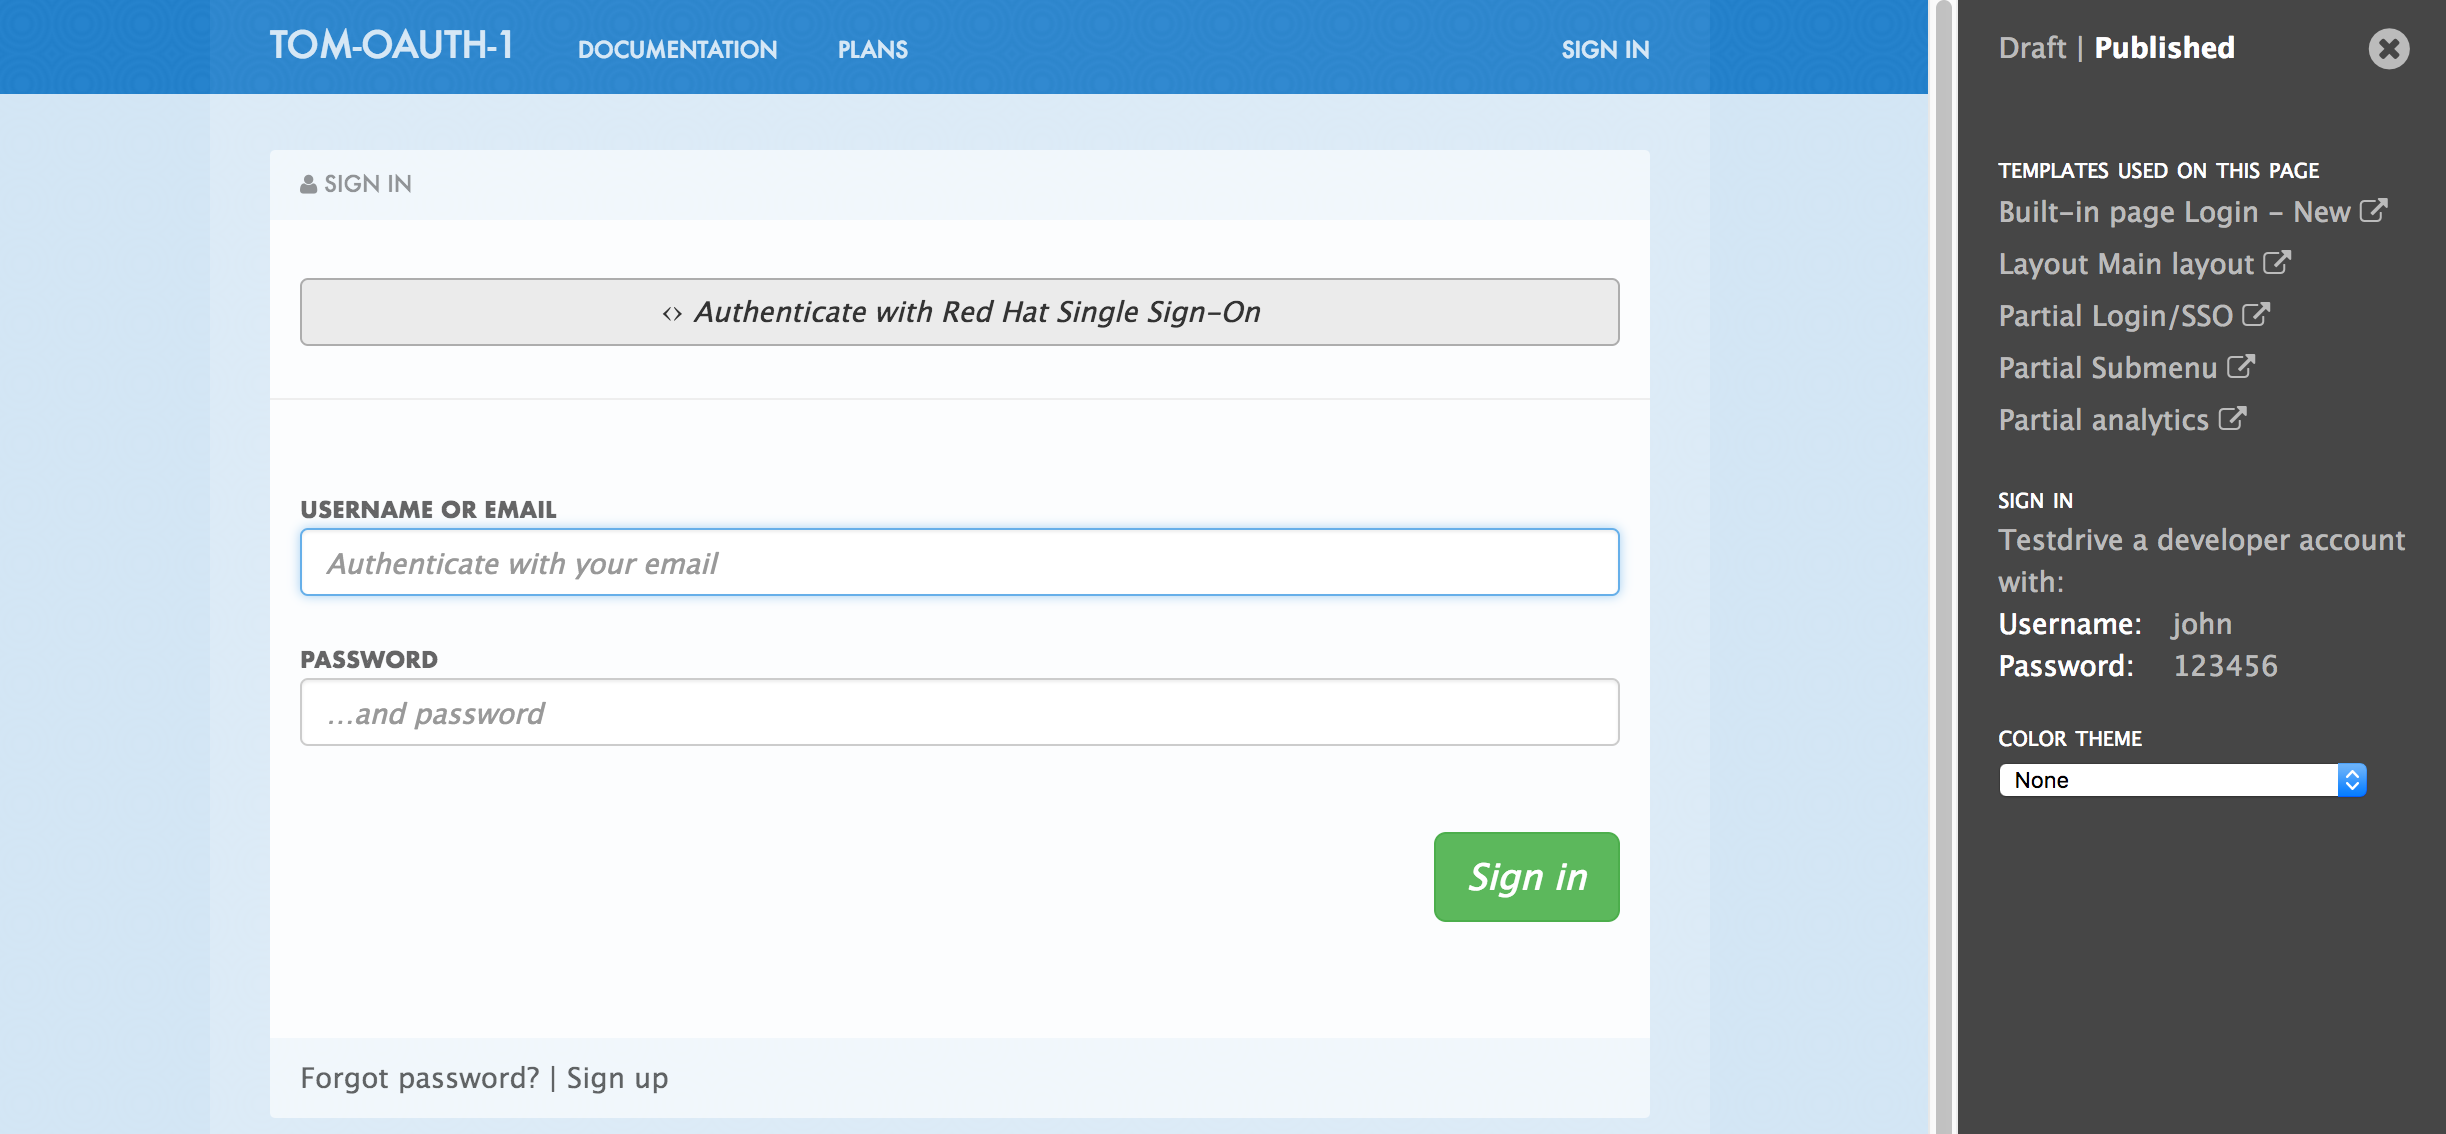
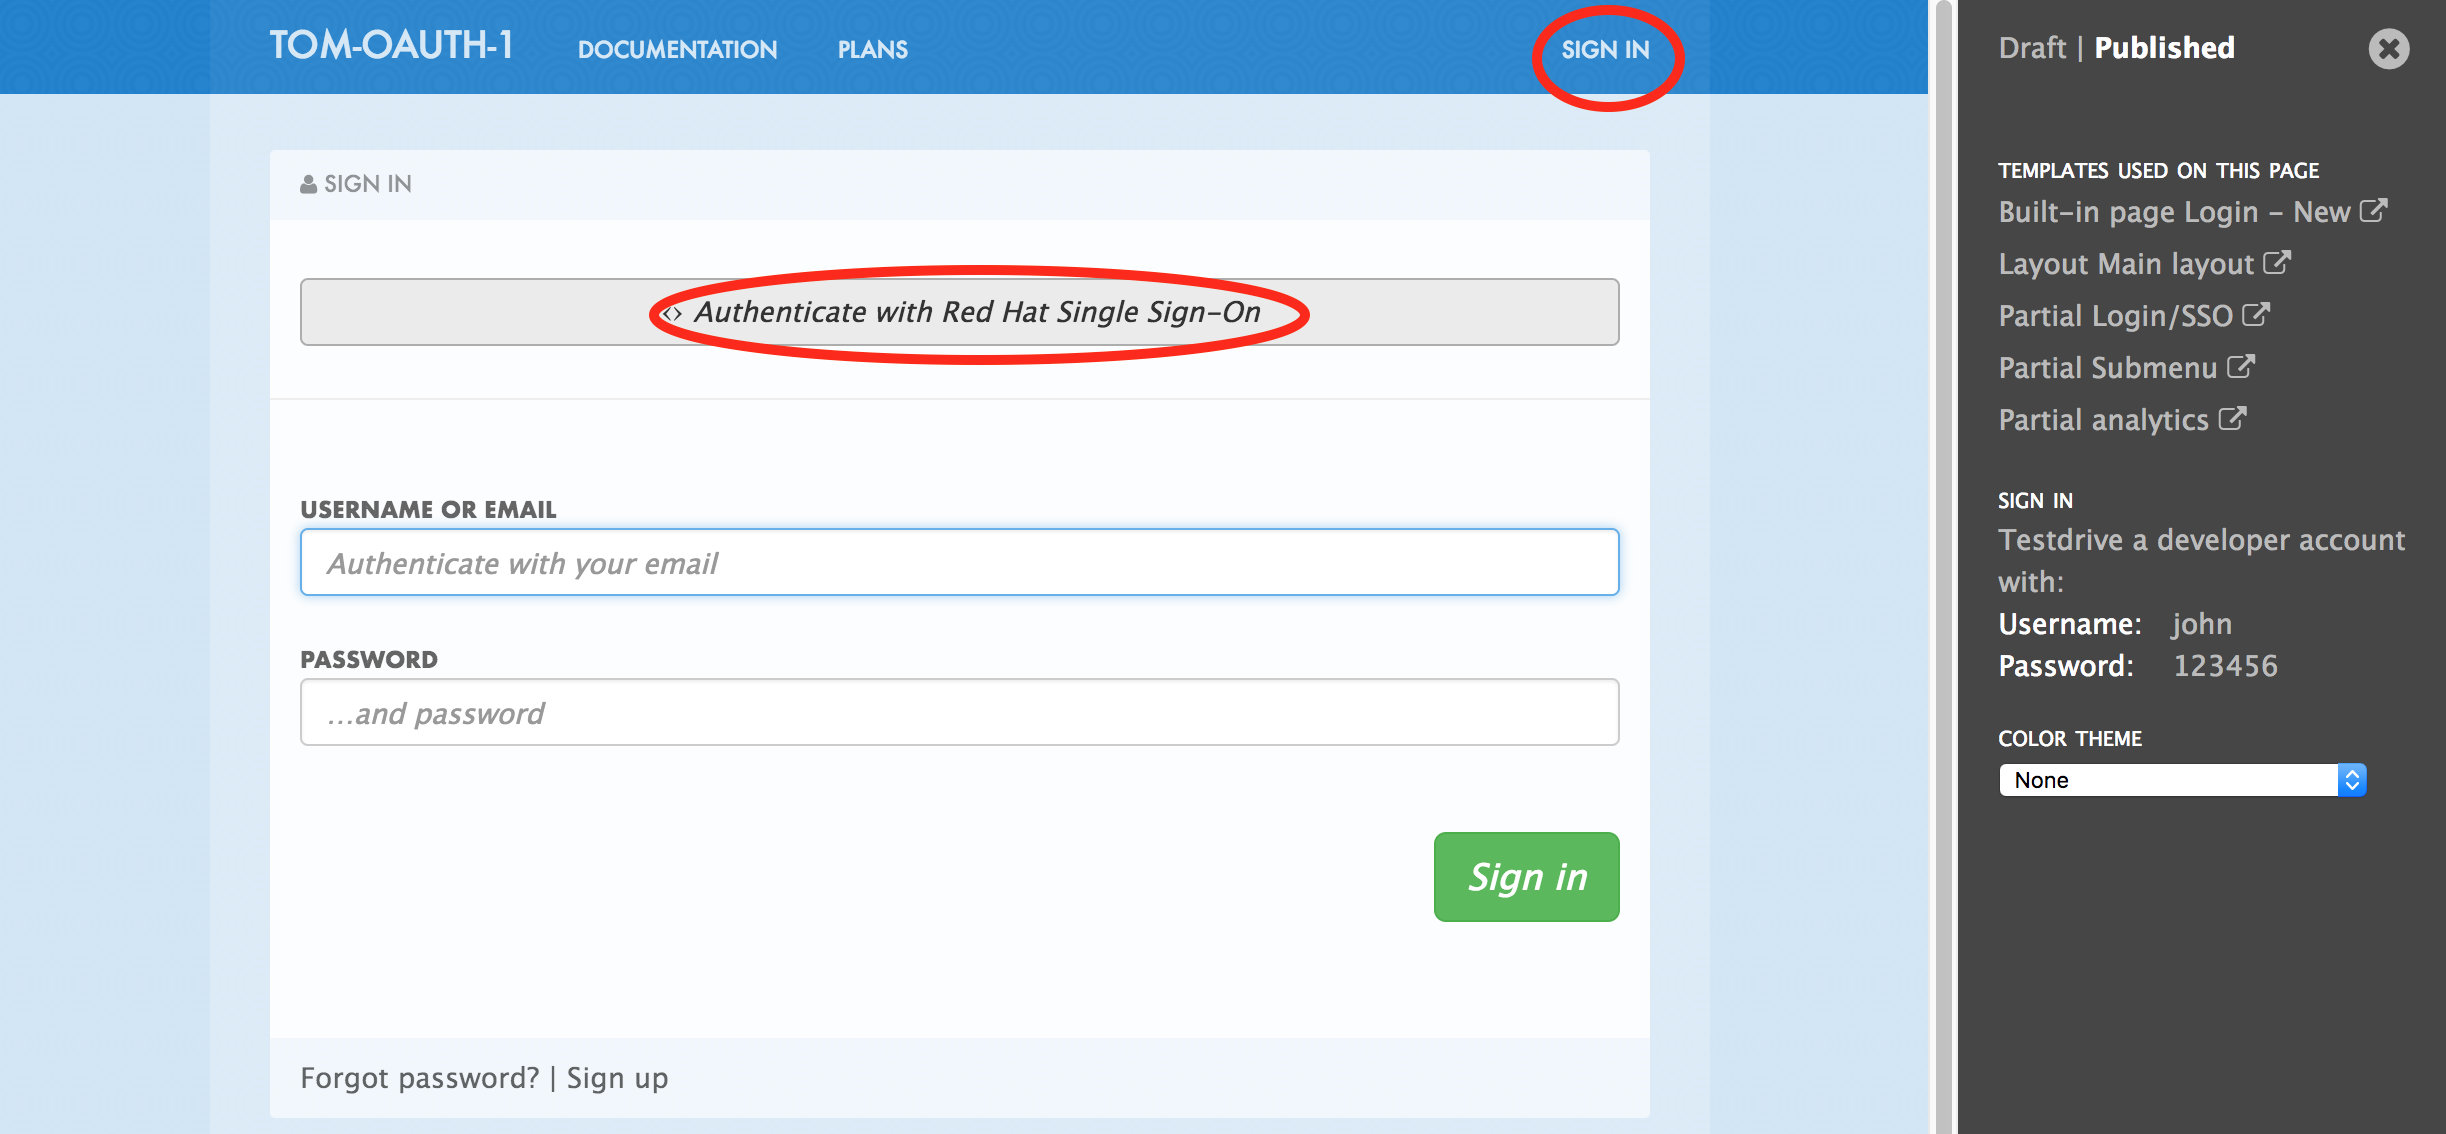
Updating documentation

diff --git a/README.md b/README.md
@@ -245,20 +245,16 @@ Test it out. Go to Developer Portal -> (in a new Incognito Window) Right click V
 ![27-dev-portal-visit-dev-portal.png](https://raw.githubusercontent.com/tnscorcoran/rhsso-3scale/master/27-dev-portal-visit-dev-portl.png)  
   
   
-Sign In  
-Authenticate with Red Hat SSO  
- 	rh-sso-ldap-user-id or rh-sso-user-id  
-Add Custom signup fields  
-Close window  
-
-3scale Admin
-- Activate Request
-
-new	INCOGNITO WINDOW 
-- https://tnscorcoran.3scale.net
-- Sign In 
-- Authenticate with Red Hat SSO
-Test it out. Go to Developer Portal -> (in a new Incognito Window) Visit Developer Portal  
+Click Sign In  
+Authenticate with Red Hat SSO. Use either *rh-sso-ldap-user-id* or *rh-sso-user-id* 
 ![28-auth-dev-portal-with-rhsso](https://raw.githubusercontent.com/tnscorcoran/rhsso-3scale/master/28-auth-dev-portal-with-rhsso.png)  
 
+After logging in you'll be prompted to add Custom signup fields. Do this and follow the sequence to completion.
+Close window  
 
+Now as your 3scale Admin user, activate this Signup Request:  
+  
+![28-auth-dev-portal-with-rhsso.png](https://raw.githubusercontent.com/tnscorcoran/rhsso-3scale/master/28-auth-dev-portal-with-rhsso.png)    
+  
+
+Dev Portal signup is now complete.
